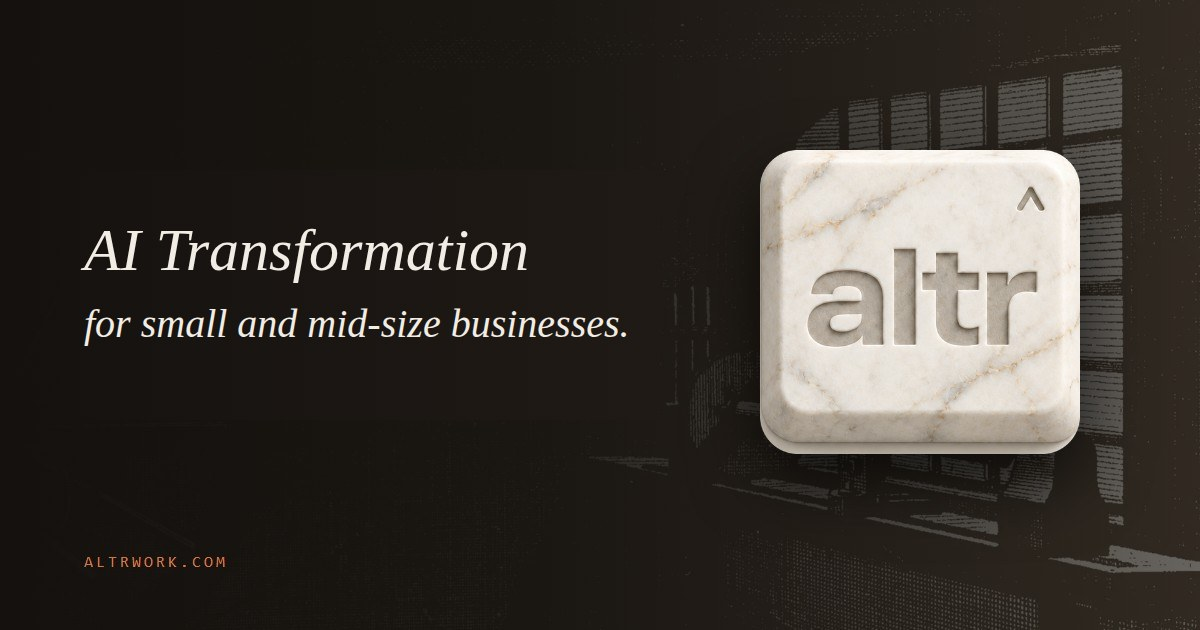
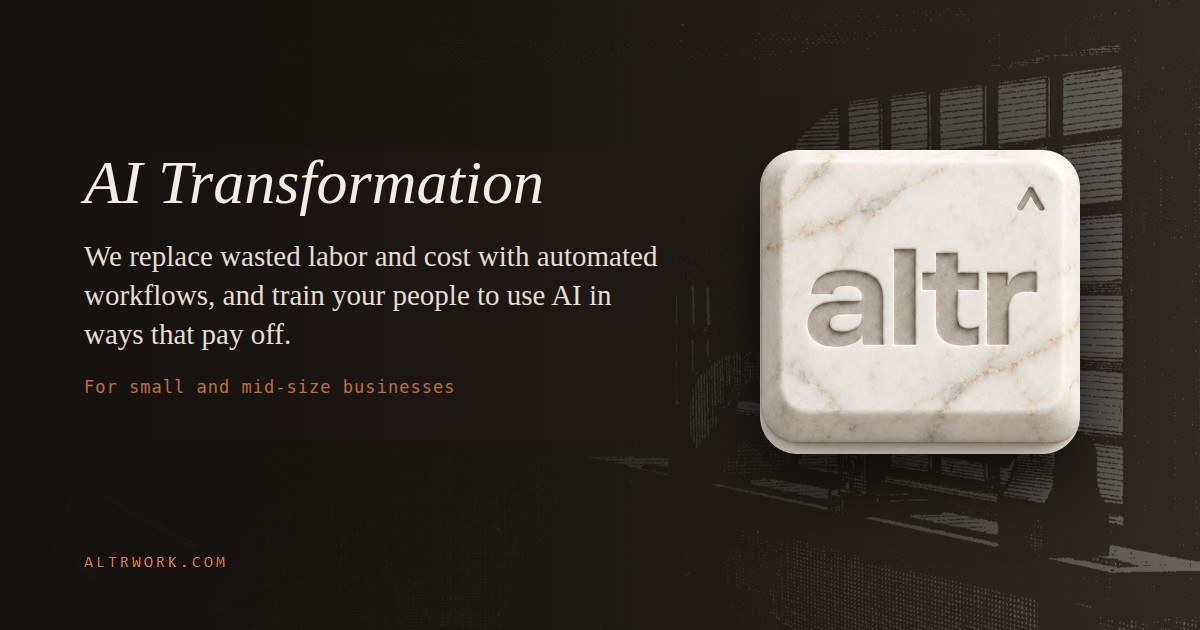
Tagline: AI Transformation for small and mid-size businesses
The positioning is an AI transformation agency that works directly with
small and mid-size businesses. It replaces wasted labor and cost with
automated workflows, and trains employees to use AI in ways that benefit
the company. "Ops teams" undersold that.

- Homepage title is "AI Transformation and AI Consulting for Small
  Business". "AI consulting" stays in the title and "AI consulting
  company" stays in the meta, because Search Console has the homepage at
  about position 5 for "ai consulting company". The test pins the new
  title and asserts both phrases.
- The hero statement, the who-we-serve heading, the schema (slogan,
  description, knowsAbout) and llms.txt carry the positioning.
- The footer tagline on every page is now "AI Transformation for small
  and mid-size businesses".
- The link preview keeps the marble key and engraving, with the tagline,
  what we do and who it is for. It lives at a new path so cached cards
  refresh.
- The Tampa page meta says small businesses instead of ops teams.

Claude-Session: https://claude.ai/code/session_01KxXkqgFuu5oge26RKv4T3n

Changed region(s): [[0.0617, 0.3619, 0.555, 0.573], [0.0617, 0.2413, 0.4625, 0.3317], [0.0617, 0.6032, 0.37, 0.6333]]

diff --git a/case-studies.html b/case-studies.html
@@ -24,7 +24,7 @@
 <meta property="og:image" content="https://altrwork.com/assets/share/altr-home-transformation.jpg" />
 <meta property="og:image:width" content="1200" />
 <meta property="og:image:height" content="630" />
-<meta property="og:image:alt" content="The carved marble altr key over an engraving of a busy workshop, with the line: AI Transformation for small and mid-size businesses." />
+<meta property="og:image:alt" content="The carved marble altr key over an engraving of a busy workshop, with the line: AI Transformation. We replace wasted labor and cost with automated workflows, and train your people to use AI in ways that pay off. For small and mid-size businesses." />
 <meta name="twitter:card" content="summary_large_image" />
 <meta name="twitter:title" content="Case Studies: Claude, MCP Server and AI Automation Work | altr" />
 <meta name="twitter:description" content="Case studies from altr: remote MCP servers on Cloudflare Workers, Claude Cowork skills, a Florida property records connector, and automations for small teams." />

diff --git a/ai-consulting-tampa.html b/ai-consulting-tampa.html
@@ -24,7 +24,7 @@
 <meta property="og:image" content="https://altrwork.com/assets/share/altr-home-transformation.jpg" />
 <meta property="og:image:width" content="1200" />
 <meta property="og:image:height" content="630" />
-<meta property="og:image:alt" content="The carved marble altr key over an engraving of a busy workshop, with the line: AI Transformation for small and mid-size businesses." />
+<meta property="og:image:alt" content="The carved marble altr key over an engraving of a busy workshop, with the line: AI Transformation. We replace wasted labor and cost with automated workflows, and train your people to use AI in ways that pay off. For small and mid-size businesses." />
 <meta name="twitter:card" content="summary_large_image" />
 <meta name="twitter:title" content="AI Consulting in Tampa | AI Consultant for Tampa Bay Businesses | altr" />
 <meta name="twitter:description" content="Looking for an AI consultant in Tampa? AI consulting in Tampa for small businesses: automate wasted work, train your people, build what earns a role." />

diff --git a/custom-agents.html b/custom-agents.html
@@ -24,7 +24,7 @@
 <meta property="og:image" content="https://altrwork.com/assets/share/altr-home-transformation.jpg" />
 <meta property="og:image:width" content="1200" />
 <meta property="og:image:height" content="630" />
-<meta property="og:image:alt" content="The carved marble altr key over an engraving of a busy workshop, with the line: AI Transformation for small and mid-size businesses." />
+<meta property="og:image:alt" content="The carved marble altr key over an engraving of a busy workshop, with the line: AI Transformation. We replace wasted labor and cost with automated workflows, and train your people to use AI in ways that pay off. For small and mid-size businesses." />
 <meta name="twitter:card" content="summary_large_image" />
 <meta name="twitter:title" content="Custom AI Agents and Workflow Automations | altr" />
 <meta name="twitter:description" content="Custom AI agents and workflow automations built on your existing tools, permissions and review paths. Based in Tampa, building for teams nationwide." />

diff --git a/ai-enablement-workshop.html b/ai-enablement-workshop.html
@@ -24,7 +24,7 @@
 <meta property="og:image" content="https://altrwork.com/assets/share/altr-home-transformation.jpg" />
 <meta property="og:image:width" content="1200" />
 <meta property="og:image:height" content="630" />
-<meta property="og:image:alt" content="The carved marble altr key over an engraving of a busy workshop, with the line: AI Transformation for small and mid-size businesses." />
+<meta property="og:image:alt" content="The carved marble altr key over an engraving of a busy workshop, with the line: AI Transformation. We replace wasted labor and cost with automated workflows, and train your people to use AI in ways that pay off. For small and mid-size businesses." />
 <meta name="twitter:card" content="summary_large_image" />
 <meta name="twitter:title" content="AI Enablement Workshop for Teams | On Site or Remote | altr" />
 <meta name="twitter:description" content="A hands-on AI workshop run on your team's own tools and repeated work. On site across Tampa Bay, or remote for teams anywhere in the US." />

diff --git a/start-a-conversation.html b/start-a-conversation.html
@@ -24,7 +24,7 @@
 <meta property="og:image" content="https://altrwork.com/assets/share/altr-home-transformation.jpg" />
 <meta property="og:image:width" content="1200" />
 <meta property="og:image:height" content="630" />
-<meta property="og:image:alt" content="The carved marble altr key over an engraving of a busy workshop, with the line: AI Transformation for small and mid-size businesses." />
+<meta property="og:image:alt" content="The carved marble altr key over an engraving of a busy workshop, with the line: AI Transformation. We replace wasted labor and cost with automated workflows, and train your people to use AI in ways that pay off. For small and mid-size businesses." />
 <meta name="twitter:card" content="summary_large_image" />
 <meta name="twitter:title" content="Book a Call | altr Tampa" />
 <meta name="twitter:description" content="Book a call with altr. Tell us about one process your team repeats and get a straight recommendation on workflow automation, AI enablement, or custom agents in Tampa Bay." />

diff --git a/workflow-automation-consultant-tampa.html b/workflow-automation-consultant-tampa.html
@@ -24,7 +24,7 @@
 <meta property="og:image" content="https://altrwork.com/assets/share/altr-home-transformation.jpg" />
 <meta property="og:image:width" content="1200" />
 <meta property="og:image:height" content="630" />
-<meta property="og:image:alt" content="The carved marble altr key over an engraving of a busy workshop, with the line: AI Transformation for small and mid-size businesses." />
+<meta property="og:image:alt" content="The carved marble altr key over an engraving of a busy workshop, with the line: AI Transformation. We replace wasted labor and cost with automated workflows, and train your people to use AI in ways that pay off. For small and mid-size businesses." />
 <meta name="twitter:card" content="summary_large_image" />
 <meta name="twitter:title" content="Workflow Automation Consultant in Tampa | altr" />
 <meta name="twitter:description" content="Workflow automation consultant in Tampa for ops heavy teams. Map one process, decide what to automate, then build only when the path earns software." />

diff --git a/about.html b/about.html
@@ -24,7 +24,7 @@
 <meta property="og:image" content="https://altrwork.com/assets/share/altr-home-transformation.jpg" />
 <meta property="og:image:width" content="1200" />
 <meta property="og:image:height" content="630" />
-<meta property="og:image:alt" content="The carved marble altr key over an engraving of a busy workshop, with the line: AI Transformation for small and mid-size businesses." />
+<meta property="og:image:alt" content="The carved marble altr key over an engraving of a busy workshop, with the line: AI Transformation. We replace wasted labor and cost with automated workflows, and train your people to use AI in ways that pay off. For small and mid-size businesses." />
 <meta name="twitter:card" content="summary_large_image" />
 <meta name="twitter:title" content="About altr | Studio and team in Tampa Bay" />
 <meta name="twitter:description" content="Meet the altr studio and team, based in Tampa Bay. We run Claude workshops and build connectors and automations for small and mid-size teams nationwide." />

diff --git a/ai-news-archive.html b/ai-news-archive.html
@@ -24,7 +24,7 @@
 <meta property="og:image" content="https://altrwork.com/assets/share/altr-home-transformation.jpg" />
 <meta property="og:image:width" content="1200" />
 <meta property="og:image:height" content="630" />
-<meta property="og:image:alt" content="The carved marble altr key over an engraving of a busy workshop, with the line: AI Transformation for small and mid-size businesses." />
+<meta property="og:image:alt" content="The carved marble altr key over an engraving of a busy workshop, with the line: AI Transformation. We replace wasted labor and cost with automated workflows, and train your people to use AI in ways that pay off. For small and mid-size businesses." />
 <meta name="twitter:card" content="summary_large_image" />
 <meta name="twitter:title" content="AI news archive for business owners: every month | altr" />
 <meta name="twitter:description" content="Every monthly AI news digest for business owners from altr, newest first: what changed, the primary source, and what to do about it." />

diff --git a/contact.html b/contact.html
@@ -24,7 +24,7 @@
 <meta property="og:image" content="https://altrwork.com/assets/share/altr-home-transformation.jpg" />
 <meta property="og:image:width" content="1200" />
 <meta property="og:image:height" content="630" />
-<meta property="og:image:alt" content="The carved marble altr key over an engraving of a busy workshop, with the line: AI Transformation for small and mid-size businesses." />
+<meta property="og:image:alt" content="The carved marble altr key over an engraving of a busy workshop, with the line: AI Transformation. We replace wasted labor and cost with automated workflows, and train your people to use AI in ways that pay off. For small and mid-size businesses." />
 <meta name="twitter:card" content="summary_large_image" />
 <meta name="twitter:title" content="Contact altr | AI Consulting in Tampa" />
 <meta name="twitter:description" content="Tell us what your team keeps repeating and we will tell you whether AI belongs in it. Email, phone, or book a free 30 minute call with altr in Tampa." />

diff --git a/learn.html b/learn.html
@@ -24,7 +24,7 @@
 <meta property="og:image" content="https://altrwork.com/assets/share/altr-home-transformation.jpg" />
 <meta property="og:image:width" content="1200" />
 <meta property="og:image:height" content="630" />
-<meta property="og:image:alt" content="The carved marble altr key over an engraving of a busy workshop, with the line: AI Transformation for small and mid-size businesses." />
+<meta property="og:image:alt" content="The carved marble altr key over an engraving of a busy workshop, with the line: AI Transformation. We replace wasted labor and cost with automated workflows, and train your people to use AI in ways that pay off. For small and mid-size businesses." />
 <meta name="twitter:card" content="summary_large_image" />
 <meta name="twitter:title" content="Learning Center: AI for Operations and CRE Teams | altr" />
 <meta name="twitter:description" content="Plain answers on Claude, MCP servers, AI agents, rolling AI out to a team, buying AI services, and AI in commercial real estate." />

diff --git a/workflow-audit.html b/workflow-audit.html
@@ -24,7 +24,7 @@
 <meta property="og:image" content="https://altrwork.com/assets/share/altr-home-transformation.jpg" />
 <meta property="og:image:width" content="1200" />
 <meta property="og:image:height" content="630" />
-<meta property="og:image:alt" content="The carved marble altr key over an engraving of a busy workshop, with the line: AI Transformation for small and mid-size businesses." />
+<meta property="og:image:alt" content="The carved marble altr key over an engraving of a busy workshop, with the line: AI Transformation. We replace wasted labor and cost with automated workflows, and train your people to use AI in ways that pay off. For small and mid-size businesses." />
 <meta name="twitter:card" content="summary_large_image" />
 <meta name="twitter:title" content="Workflow Audit for AI Automation | altr" />
 <meta name="twitter:description" content="A workflow audit maps one repeated process end to end before any AI is built: inputs, decisions, tools, review points, and failure modes." />

diff --git a/law-firms.html b/law-firms.html
@@ -15,7 +15,7 @@
 <meta property="og:type" content="website" />
 <meta property="og:site_name" content="altr" />
 <meta property="og:image" content="https://altrwork.com/assets/share/altr-home-transformation.jpg" />
-<meta property="og:image:alt" content="The carved marble altr key over an engraving of a busy workshop, with the line: AI Transformation for small and mid-size businesses." />
+<meta property="og:image:alt" content="The carved marble altr key over an engraving of a busy workshop, with the line: AI Transformation. We replace wasted labor and cost with automated workflows, and train your people to use AI in ways that pay off. For small and mid-size businesses." />
 <meta name="twitter:card" content="summary_large_image" />
 <meta name="twitter:title" content="AI for Law Firms | AI Consulting | altr" />
 <meta name="twitter:description" content="Use AI on the work around the matter - intake, documents, billing - while judgment, privilege, and client confidentiality stay with the firm." />
